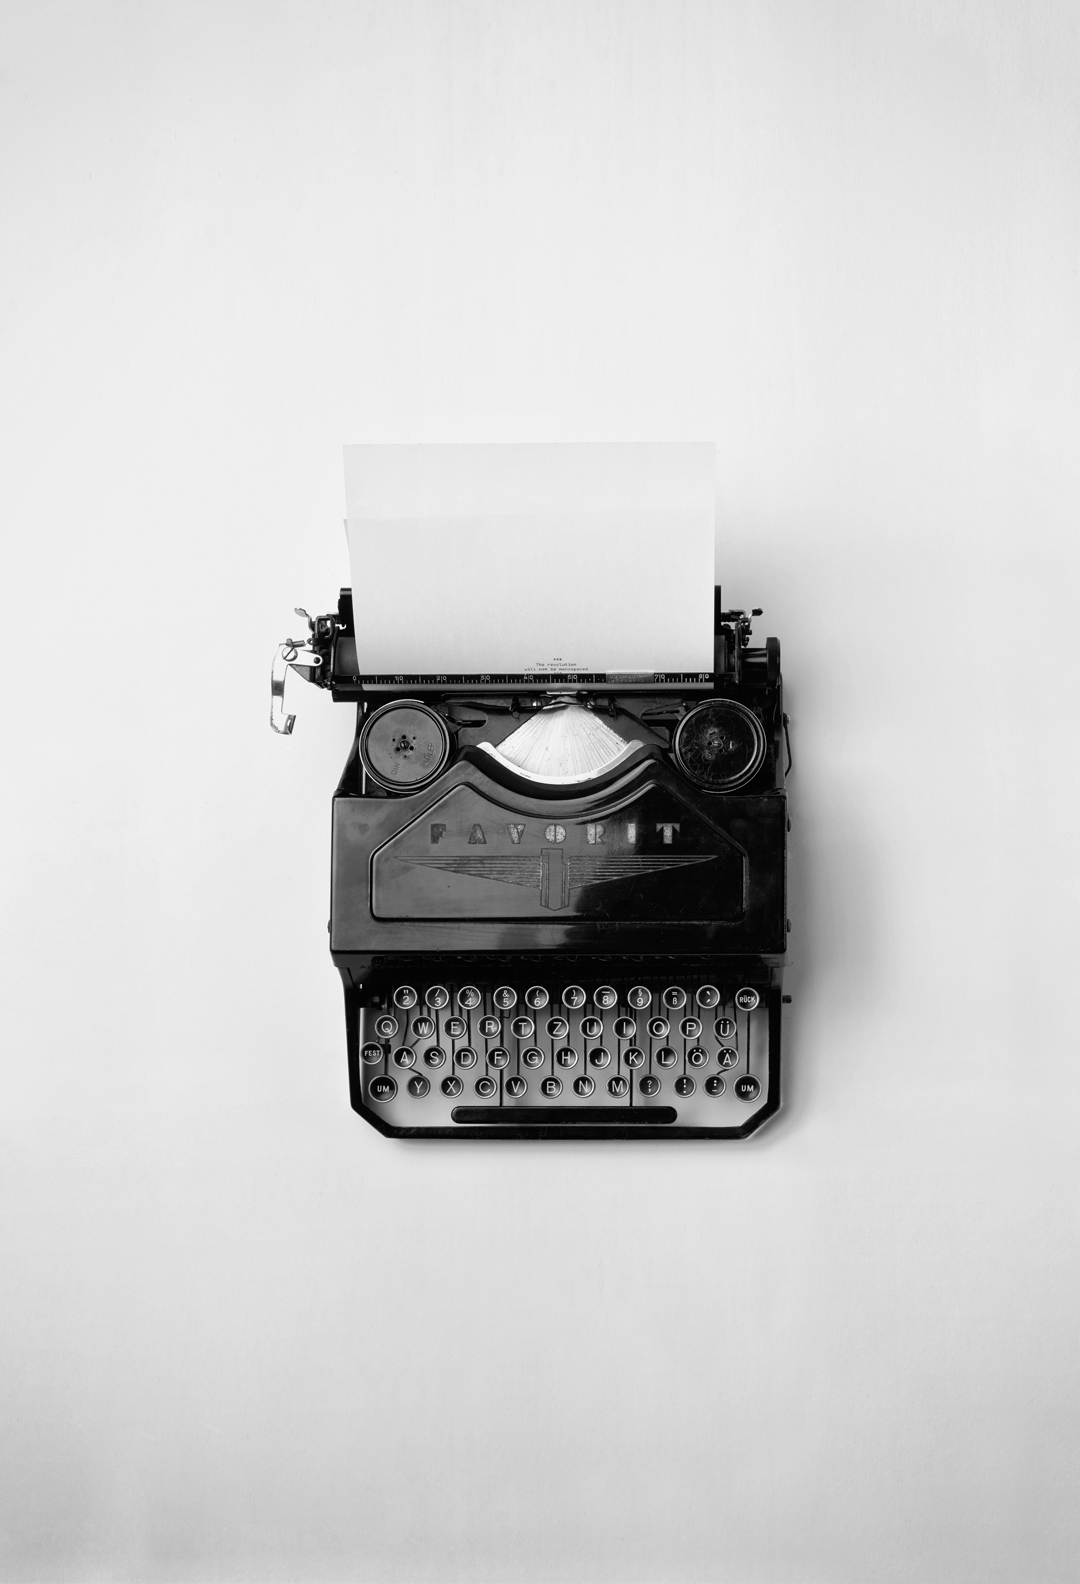
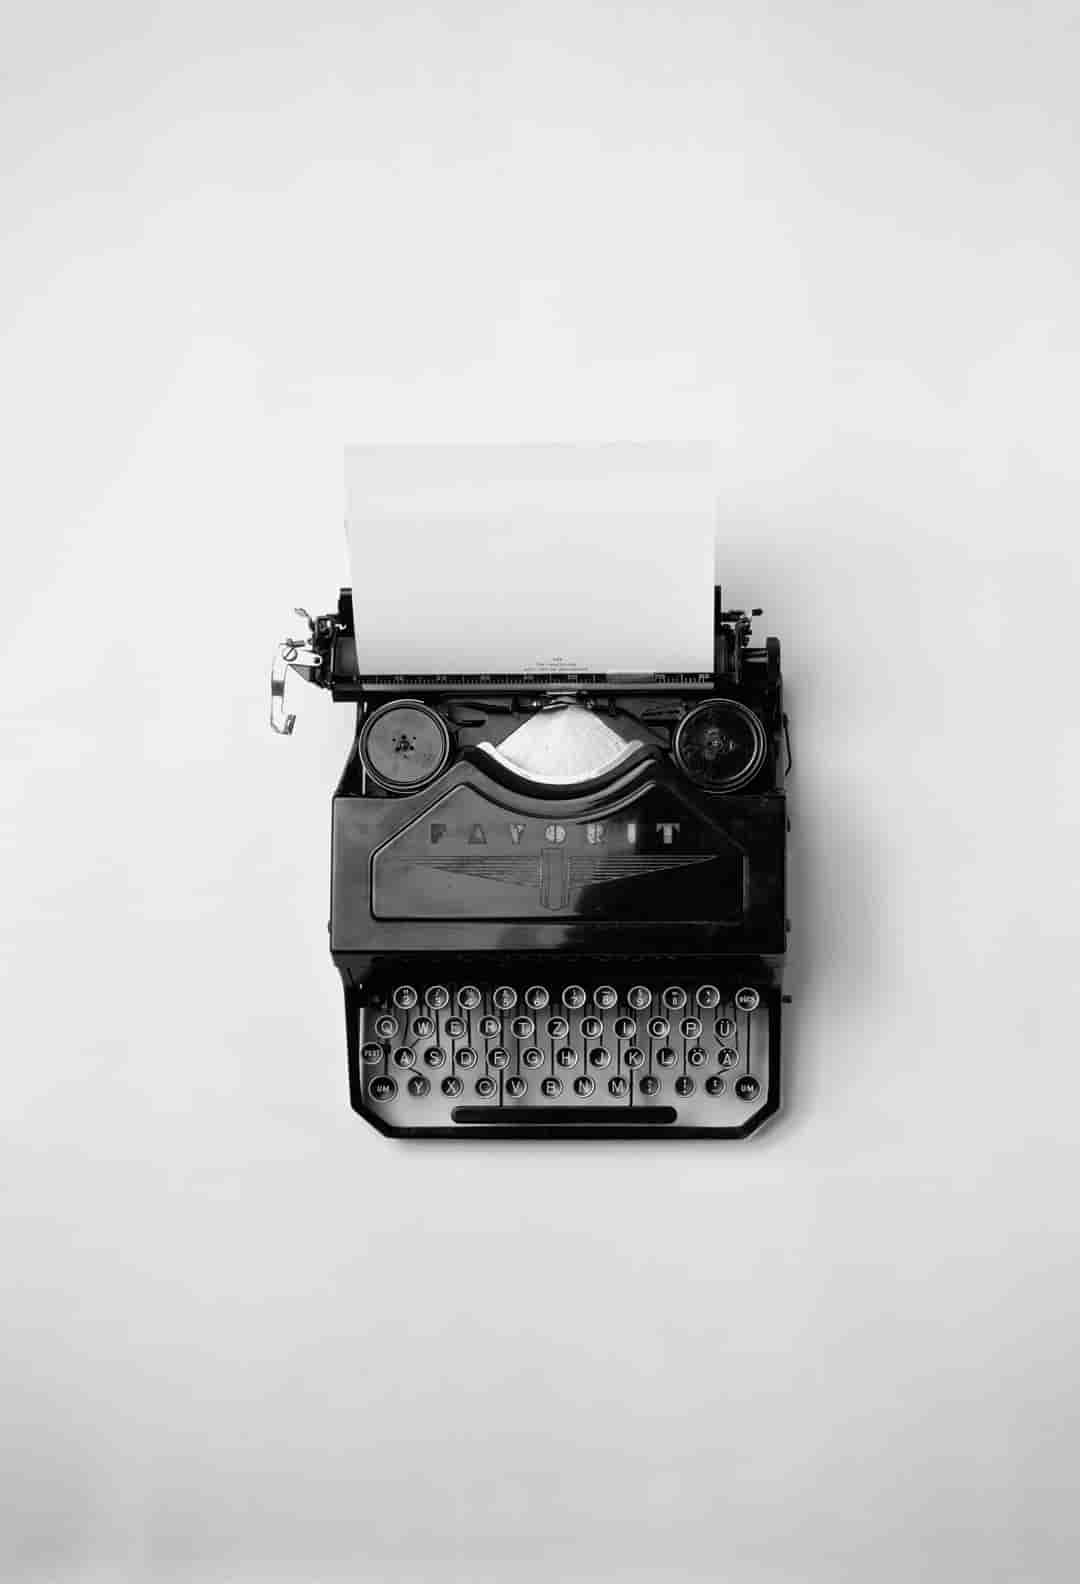
Resize another image

diff --git a/flutter_service_worker.js b/flutter_service_worker.js
@@ -4,8 +4,8 @@ const TEMP = 'flutter-temp-cache';
 const CACHE_NAME = 'flutter-app-cache';
 
 const RESOURCES = {"version.json": "5d0313a8773235ff08f1ba63d2b51581",
-"index.html": "72b327e24ca6b14fa5cf0d3b08d12b35",
-"/": "72b327e24ca6b14fa5cf0d3b08d12b35",
+"index.html": "79cd049b7e736c1c44c993660df6d338",
+"/": "79cd049b7e736c1c44c993660df6d338",
 "main.dart.js": "f9a63872fdd8782ea21f90c21c8c9905",
 "flutter.js": "6fef97aeca90b426343ba6c5c9dc5d4a",
 "favicon.png": "56b807ac55be05bdb11bb85842760e7d",
@@ -34,7 +34,7 @@ const RESOURCES = {"version.json": "5d0313a8773235ff08f1ba63d2b51581",
 "assets/assets/images/newsletter2.jpg": "3019793a7eb4247f0850091894e685e6",
 "assets/assets/images/iphone_cactus_tea_overhead_bw_w1080.jpg": "319249e756f3a470d45841baea9d1132",
 "assets/assets/images/paper_flower_overhead_bw_w1080.jpg": "1bed4aefd73a600a585112a77c250a6c",
-"assets/assets/images/typewriter_overhead_bw_w1080.jpg": "39e8f60e5bb2b90a5d801dd4617e7927",
+"assets/assets/images/typewriter_overhead_bw_w1080.jpg": "af7ed0d4cb1b3cff47240a8dc7eed77c",
 "canvaskit/skwasm.js": "95f16c6690f955a45b2317496983dbe9",
 "canvaskit/skwasm.wasm": "1a074e8452fe5e0d02b112e22cdcf455",
 "canvaskit/chromium/canvaskit.js": "96ae916cd2d1b7320fff853ee22aebb0",

diff --git a/index.html b/index.html
@@ -34,7 +34,7 @@
 
     <script>
       // The value below is injected by flutter build, do not touch.
-      const serviceWorkerVersion = "483298230";
+      const serviceWorkerVersion = "1287991410";
     </script>
     <!-- This script adds the flutter initialization JS code -->
     <script src="flutter.js" defer></script>
